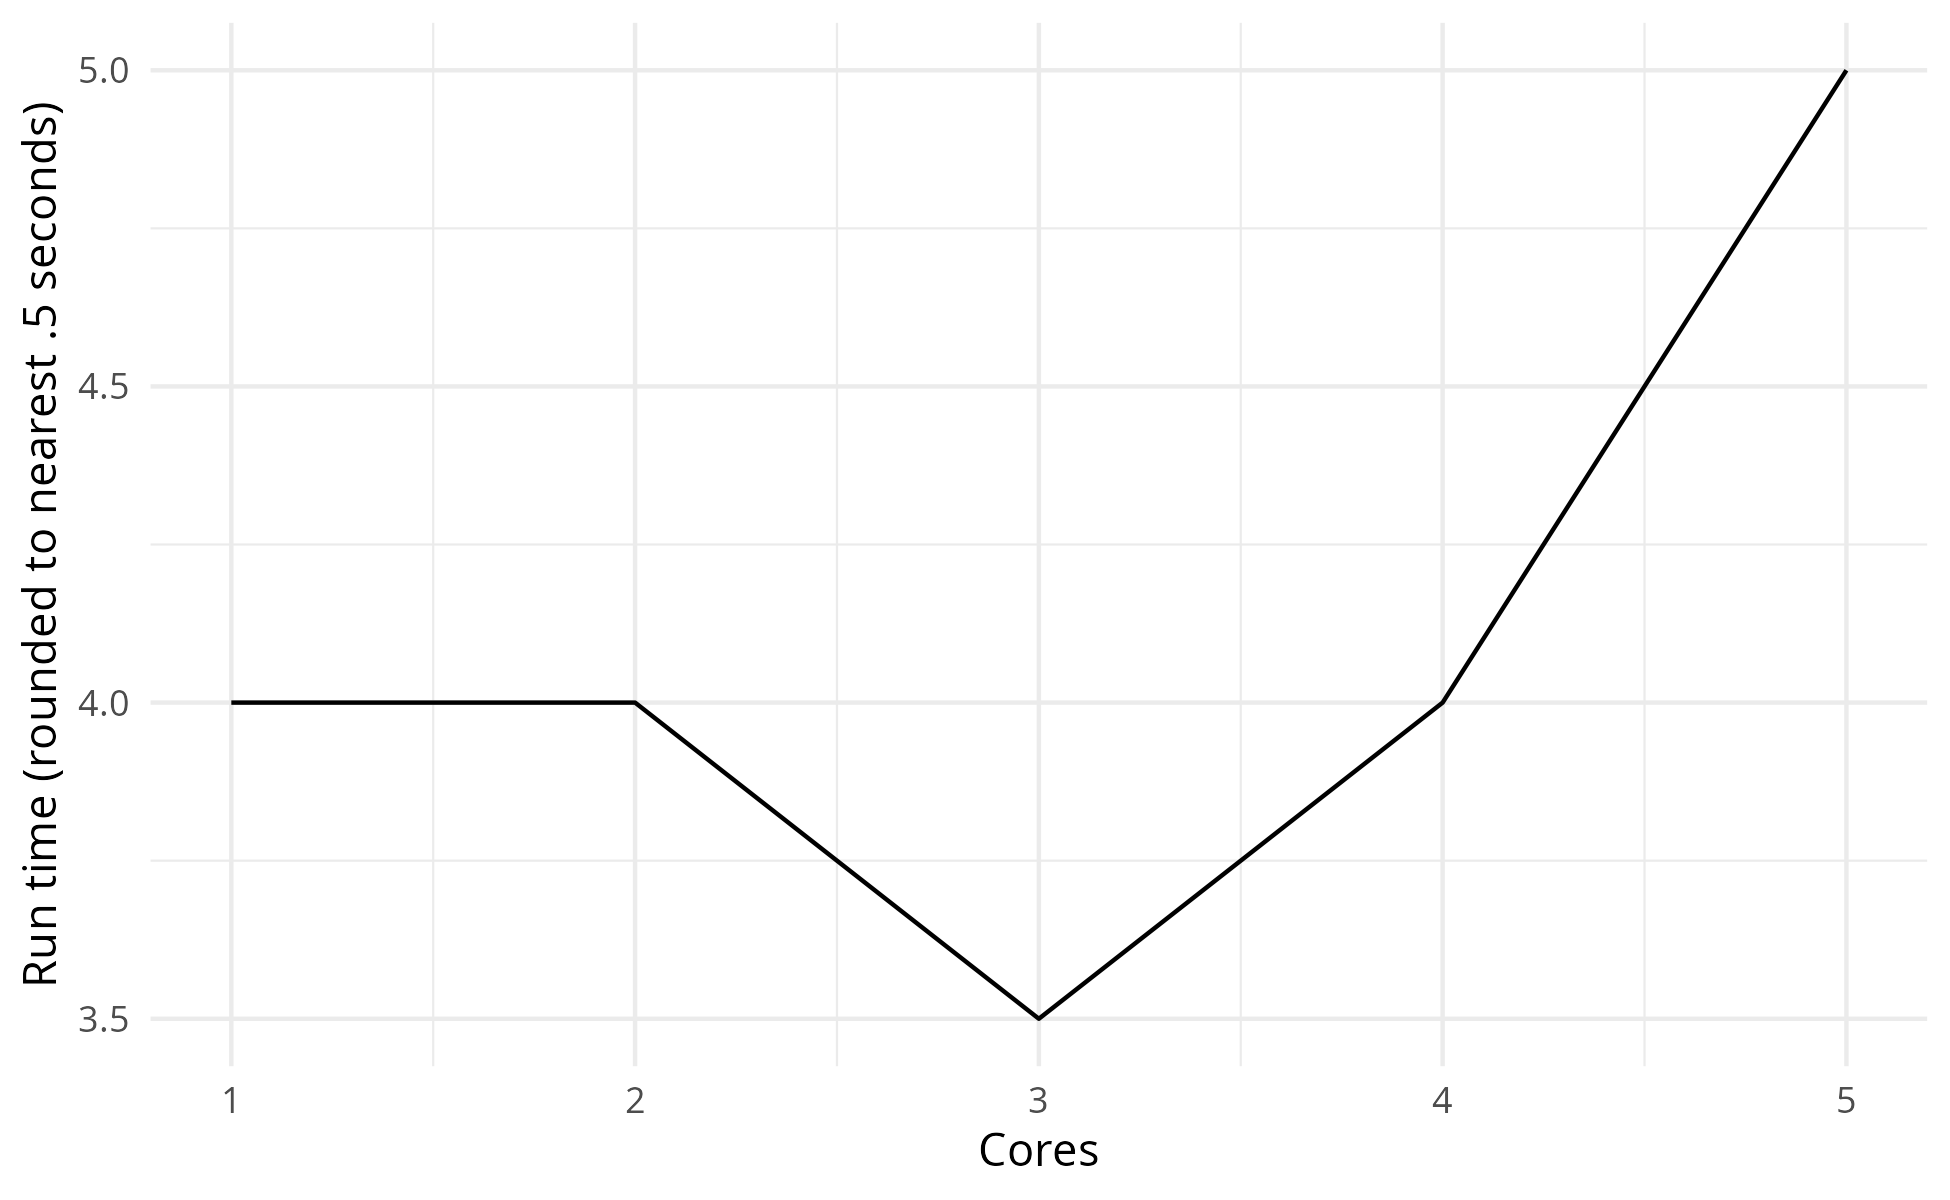
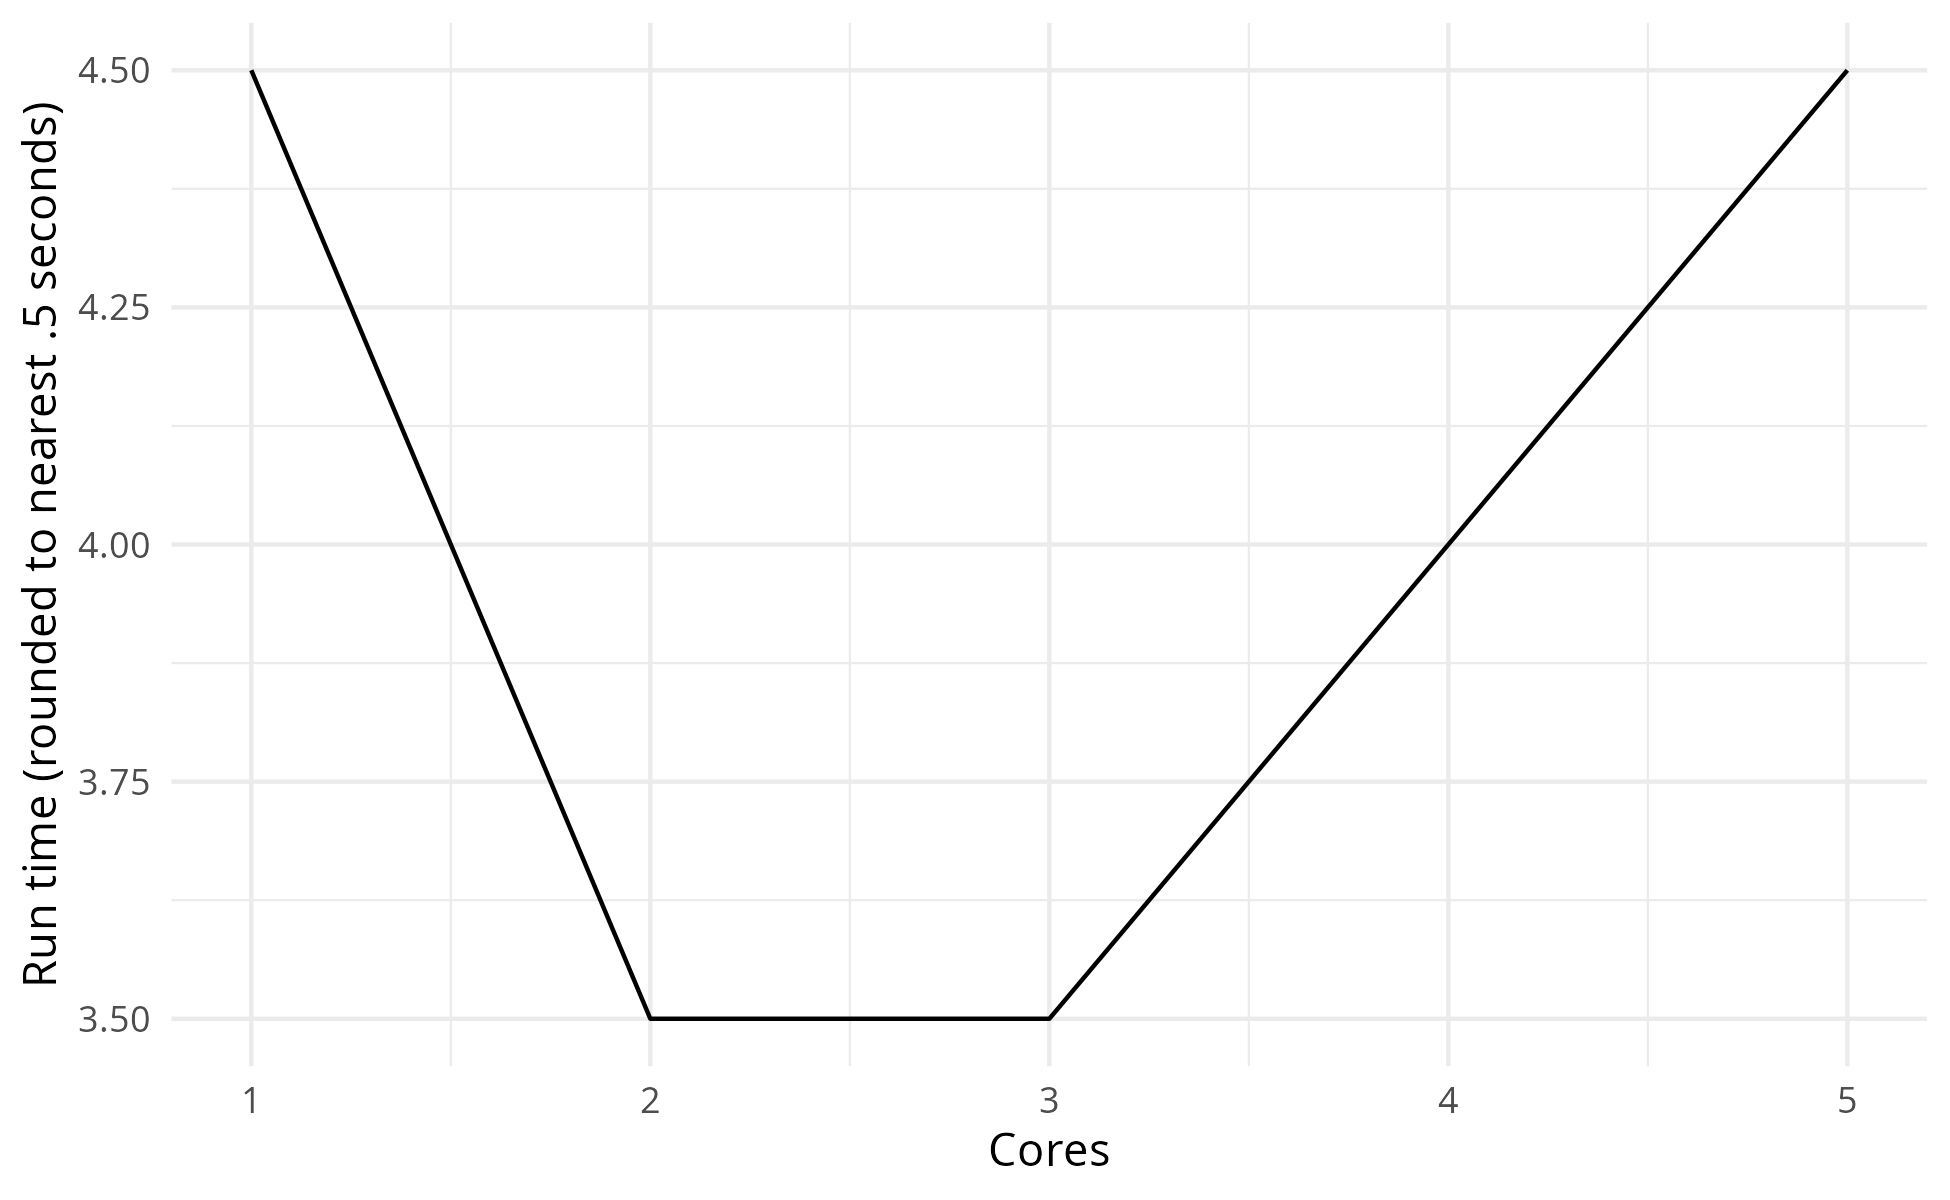
chore(rmarkdown): re-ran rmarkdown, confirming no results changes (except cores times)

diff --git a/rmarkdown/choosing_cores.md b/rmarkdown/choosing_cores.md
@@ -1,7 +1,7 @@
 Choosing cores
 ================
 Amy Heather
-2025-06-03
+2025-06-04
 
 - [Set up](#set-up)
 - [Run time with varying number of CPU
@@ -28,23 +28,12 @@ sequentially, `devtools::load_all()` is sufficient. If running in
 parallel, you must use `devtools::install()`.
 
 ``` r
-devtools::install()
+devtools::install(upgrade = "never")
 ```
 
-    ## openssl    (2.3.2  -> 2.3.3 ) [CRAN]
-    ## curl       (6.2.2  -> 6.2.3 ) [CRAN]
-    ## parallelly (1.44.0 -> 1.45.0) [CRAN]
-    ## promises   (1.3.2  -> 1.3.3 ) [CRAN]
-    ## data.table (1.17.2 -> 1.17.4) [CRAN]
-
-    ## Installing 5 packages: openssl, curl, parallelly, promises, data.table
-
-    ## Installing packages into '/home/amy/.cache/R/renv/library/rap_template_r_des-cd7d6844/linux-ubuntu-noble/R-4.4/x86_64-pc-linux-gnu'
-    ## (as 'lib' is unspecified)
-
-    ## ── R CMD build ─────────────────────────────────────────────────────────────────
+    ## ── R CMD build ────────────────────────────────────────────────────────────────────────────────────────────────────────────────────────────────────────────────────────────────────────────────────────────────────
     ##      checking for file ‘/home/amy/Documents/stars/rap_template_r_des/DESCRIPTION’ ...  ✔  checking for file ‘/home/amy/Documents/stars/rap_template_r_des/DESCRIPTION’
-    ##   ─  preparing ‘simulation’: (410ms)
+    ##   ─  preparing ‘simulation’:
     ##    checking DESCRIPTION meta-information ...  ✔  checking DESCRIPTION meta-information
     ##   ─  checking for LF line-endings in source and make files and shell scripts
     ##   ─  checking for empty or unneeded directories
@@ -52,7 +41,7 @@ devtools::install()
     ##   ─  building ‘simulation_0.1.0.tar.gz’
     ##      
     ## Running /opt/R/4.4.1/lib/R/bin/R CMD INSTALL \
-    ##   /tmp/RtmpaJo3Dh/simulation_0.1.0.tar.gz --install-tests 
+    ##   /tmp/RtmpST1FqV/simulation_0.1.0.tar.gz --install-tests 
     ## * installing to library ‘/home/amy/.cache/R/renv/library/rap_template_r_des-cd7d6844/linux-ubuntu-noble/R-4.4/x86_64-pc-linux-gnu’
     ## * installing *source* package ‘simulation’ ...
     ## ** using staged installation
@@ -244,7 +233,7 @@ The optimal number of cores will vary depending on your model parameters
 and machine.
 
 ``` r
-run_cores(5L, "cores2.png", list(data_collection_period = 100000L))
+run_cores(5L, "cores2.png", list(data_collection_period = 10000L))
 ```
 
     ## Running with cores:1
@@ -264,7 +253,7 @@ run_cores(5L, "cores2.png", list(data_collection_period = 100000L))
     ## [1] 0
     ## 
     ## $data_collection_period
-    ## [1] 100000
+    ## [1] 10000
     ## 
     ## $number_of_runs
     ## [1] 100
@@ -307,4 +296,4 @@ seconds <- as.integer(runtime %% 60L)
 cat(sprintf("Notebook run time: %dm %ds", minutes, seconds))
 ```
 
-    ## Notebook run time: 2m 7s
+    ## Notebook run time: 0m 48s

diff --git a/rmarkdown/analysis.md b/rmarkdown/analysis.md
@@ -1,7 +1,7 @@
 Analysis
 ================
 Amy Heather
-2025-05-20
+2025-06-04
 
 - [Set up](#set-up)
 - [Default run](#default-run)
@@ -476,7 +476,7 @@ print(table_latex)
 ```
 
     ## % latex table generated in R 4.4.1 by xtable 1.8-4 package
-    ## % Tue May 20 12:48:58 2025
+    ## % Wed Jun  4 14:18:03 2025
     ## \begin{table}[ht]
     ## \centering
     ## \begin{tabular}{rrllll}
@@ -802,7 +802,7 @@ print(sensitivity_table_latex)
 ```
 
     ## % latex table generated in R 4.4.1 by xtable 1.8-4 package
-    ## % Tue May 20 12:49:41 2025
+    ## % Wed Jun  4 14:18:43 2025
     ## \begin{table}[ht]
     ## \centering
     ## \begin{tabular}{rrl}
@@ -964,4 +964,4 @@ seconds <- as.integer(runtime %% 60L)
 cat(sprintf("Notebook run time: %dm %ds", minutes, seconds))
 ```
 
-    ## Notebook run time: 2m 12s
+    ## Notebook run time: 2m 3s

diff --git a/rmarkdown/input_modelling.md b/rmarkdown/input_modelling.md
@@ -1,7 +1,7 @@
 Input modelling
 ================
 Amy Heather
-2025-06-03
+2025-06-04
 
 - [Input modelling](#input-modelling)
   - [Set-up](#set-up)
@@ -615,4 +615,4 @@ seconds <- as.integer(runtime %% 60L)
 cat(sprintf("Notebook run time: %dm %ds", minutes, seconds))
 ```
 
-    ## Notebook run time: 0m 12s
+    ## Notebook run time: 0m 13s

diff --git a/rmarkdown/choosing_replications.md b/rmarkdown/choosing_replications.md
@@ -1,7 +1,7 @@
 Choosing replications
 ================
 Amy Heather
-2025-05-21
+2025-06-04
 
 - [Set up](#set-up)
 - [Choosing the number of
@@ -730,4 +730,4 @@ seconds <- as.integer(runtime %% 60L)
 cat(sprintf("Notebook run time: %dm %ds", minutes, seconds))
 ```
 
-    ## Notebook run time: 1m 35s
+    ## Notebook run time: 1m 33s

diff --git a/rmarkdown/using_set_attributes.md b/rmarkdown/using_set_attributes.md
@@ -1,7 +1,7 @@
 Using `set_attributes()`
 ================
 Amy Heather
-2025-05-20
+2025-06-04
 
 - [Original model](#original-model)
 - [Model with record of allocation to a nurse

diff --git a/rmarkdown/choosing_warmup.md b/rmarkdown/choosing_warmup.md
@@ -1,7 +1,7 @@
 Choosing warm-up length
 ================
 Amy Heather
-2025-05-20
+2025-06-04
 
 - [Set-up](#set-up)
 - [Determining appropriate warm-up

diff --git a/rmarkdown/generate_exp_results.md b/rmarkdown/generate_exp_results.md
@@ -1,7 +1,7 @@
 Generate expected results
 ================
 Amy Heather
-2025-05-21
+2025-06-04
 
 - [Set-up](#set-up)
 - [Base case](#base-case)

diff --git a/rmarkdown/logs.md b/rmarkdown/logs.md
@@ -1,7 +1,7 @@
 Logs
 ================
 Amy Heather
-2025-05-20
+2025-06-04
 
 - [Set up](#set-up)
 - [Simulation run with logs printed to the
